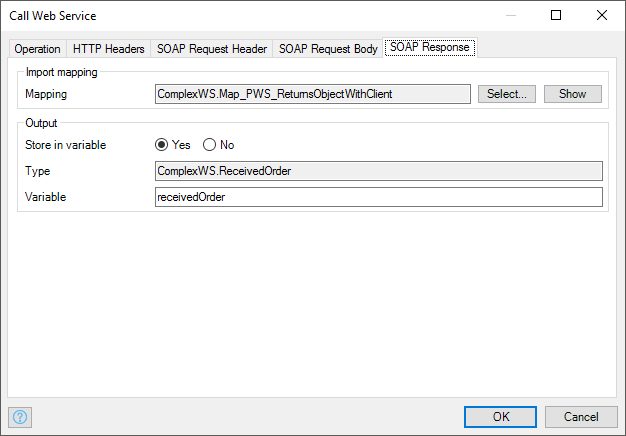
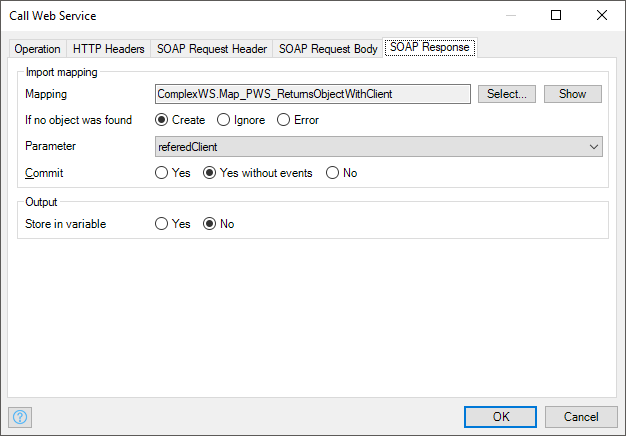
Choosing whether to commit an import mapping (#1342)
* Choosing whether to commit an import mapping

* Update call-web-service-action.md

* Update import-mapping-action.md

diff --git a/content/refguide/call-web-service-action.md b/content/refguide/call-web-service-action.md
@@ -176,7 +176,17 @@ You can indicate what should happen **if not object was found** when the import 
 
 If the selected mapping requires a parameter, you can choose it here.
 
-### 5.4 Range (If the Mapping Returns a List)
+### 5.4 Commit
+
+Indicates whether the resulting objects should be committed to the database, and whether event handlers should be triggered.
+
+| Option | Description |
+| --- | --- |
+| Yes | The objects are saved in the database and the [event handlers](event-handlers) are triggered. |
+| Yes without events | The objects are saved in the database, but the [event handlers](event-handlers) are not triggered (default). |
+| No | The objects are created without being saved in the database. You will need a [commit action](committing-objects) to save them. |
+
+### 5.5 Range (If the Mapping Returns a List)
 
 The range determines how many objects are mapped and returned.
 
@@ -186,14 +196,14 @@ The range determines how many objects are mapped and returned.
 | First | Map and return only the first object. The result of the action will be a single object instead of a list. |
 | Custom | Map and return a given number of objects (limit). The limit is a microflow expression that should result in a number. |
 
-### 5.5 Store in Variable
+### 5.6 Store in Variable
 
 Choose whether to store the result of the operation in a variable.
 
-### 5.6 Type
+### 5.7 Type
 
 The type of the output variable.
 
-### 5.7 Name
+### 5.8 Name
 
 The name for the variable that will hold the result of the operation.

diff --git a/content/refguide/import-mapping-action.md b/content/refguide/import-mapping-action.md
@@ -76,6 +76,16 @@ The range determines how many objects are mapped and returned.
 | First | Map and return only the first object. The result of the action will be a single object instead of a list. |
 | Custom | Map and return a given number of objects (limit). The limit is a microflow expression that should result in a number. |
 
+### 3.7 Commit
+
+Indicates whether the resulting objects should be committed to the database, and whether event handlers should be triggered.
+
+| Option | Description |
+| --- | --- |
+| Yes | The objects are saved in the database and the [event handlers](event-handlers) are triggered. |
+| Yes without events | The objects are saved in the database, but the [event handlers](event-handlers) are not triggered (default). |
+| No | The objects are created without being saved in the database. You will need a [commit action](committing-objects) to save them. |
+
 ## 4 Validation
 
 {{% alert type="info" %}}
